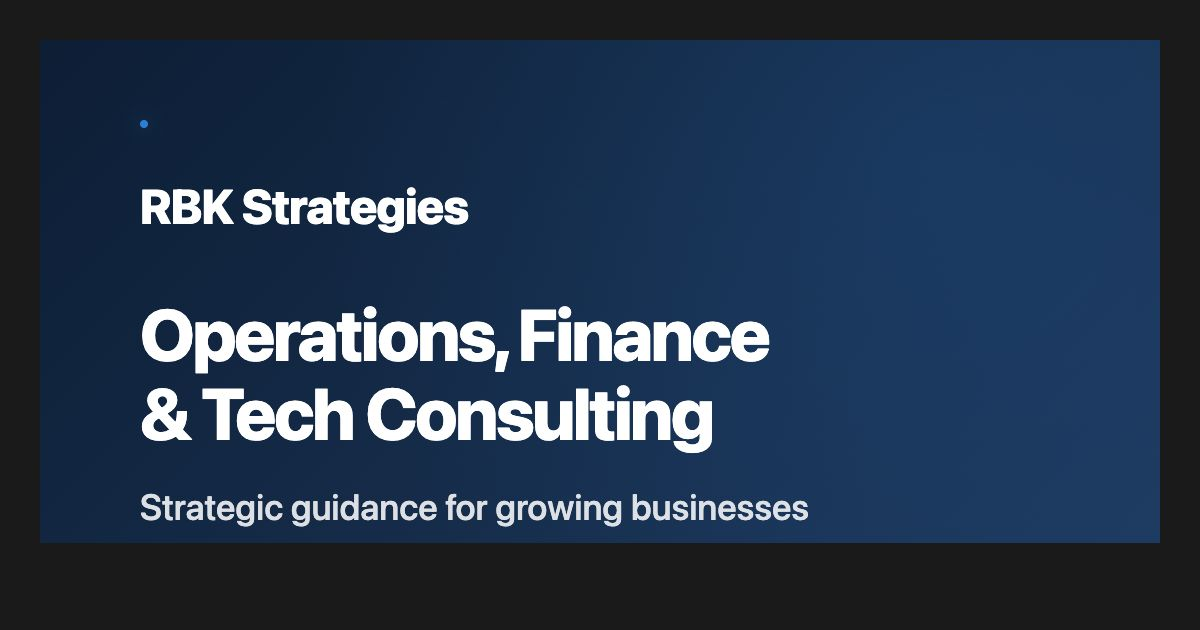
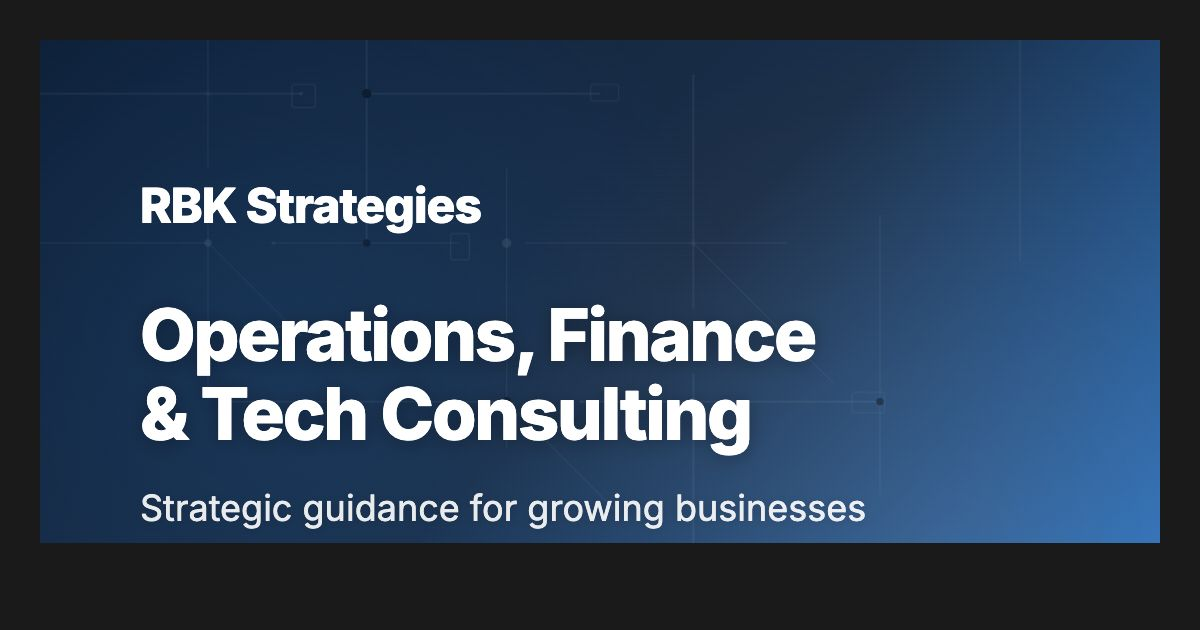
feat: add circuit board pattern to OG image
- Added full circuit board SVG pattern matching hero section design
- Includes pulsing connection nodes with animations
- Radial gradient overlays for visual depth
- Maintains proper 1200x630px aspect ratio
- More detailed and visually interesting share card

🤖 Generated with [Claude Code](https://claude.com/claude-code)

Changed region(s): [[0.1233, 0.0905, 0.9867, 0.8746], [0.1233, 0.2714, 0.4008, 0.3921], [0.1233, 0.4825, 0.1542, 0.5127]]

diff --git a/og-image-template.html b/og-image-template.html
@@ -27,7 +27,7 @@
     .og-image {
       width: 1200px;
       height: 630px;
-      background: linear-gradient(135deg, #0D1E35 0%, #1E3A5F 100%);
+      background: linear-gradient(135deg, #0D1E35 0%, #1A2F4A 50%, #2D7DD2 100%);
       position: relative;
       overflow: hidden;
       display: flex;
@@ -36,7 +36,19 @@
       padding: 80px 100px;
     }
 
-    /* Subtle gradient overlay */
+    /* Circuit board pattern overlay */
+    .circuit-pattern {
+      position: absolute;
+      top: 0;
+      left: 0;
+      width: 100%;
+      height: 100%;
+      opacity: 0.4;
+      pointer-events: none;
+      z-index: 1;
+    }
+
+    /* Radial gradient overlays (matching hero section) */
     .og-image::before {
       content: '';
       position: absolute;
@@ -44,8 +56,11 @@
       left: 0;
       right: 0;
       bottom: 0;
-      background: radial-gradient(circle at 80% 20%, rgba(45, 125, 210, 0.15) 0%, transparent 60%);
+      background:
+        radial-gradient(circle at 20% 50%, rgba(45, 125, 210, 0.15) 0%, transparent 50%),
+        radial-gradient(circle at 80% 80%, rgba(244, 162, 97, 0.1) 0%, transparent 50%);
       pointer-events: none;
+      z-index: 2;
     }
 
     /* Content container */
@@ -69,13 +84,15 @@
       line-height: 1.1;
       margin-bottom: 30px;
       letter-spacing: -0.03em;
+      text-shadow: 0 2px 20px rgba(0, 0, 0, 0.3);
     }
 
     .subheadline {
       font-size: 36px;
       font-weight: 500;
-      color: rgba(255, 255, 255, 0.85);
+      color: rgba(255, 255, 255, 0.9);
       line-height: 1.4;
+      text-shadow: 0 1px 10px rgba(0, 0, 0, 0.15);
     }
 
     /* Accent bar at bottom */
@@ -86,24 +103,92 @@
       right: 0;
       height: 10px;
       background: linear-gradient(90deg, #2D7DD2 0%, #F4A261 100%);
+      z-index: 15;
     }
 
-    /* Small decorative element */
-    .decorative-dot {
-      position: absolute;
-      top: 80px;
-      left: 100px;
-      width: 8px;
-      height: 8px;
-      border-radius: 50%;
-      background: #2D7DD2;
-      box-shadow: 0 0 20px rgba(45, 125, 210, 0.5);
+    /* Pulsing animations for connection nodes */
+    @keyframes nodePulse {
+      0%, 100% {
+        opacity: 0.2;
+        fill: rgba(255, 255, 255, 0.2);
+      }
+      50% {
+        opacity: 1;
+        fill: rgba(255, 255, 255, 0.5);
+      }
+    }
+
+    .node-pulse-1 {
+      animation: nodePulse 2.5s ease-in-out infinite;
+      animation-delay: 0s;
+    }
+
+    .node-pulse-2 {
+      animation: nodePulse 2.5s ease-in-out infinite;
+      animation-delay: 0.8s;
+    }
+
+    .node-pulse-3 {
+      animation: nodePulse 2.5s ease-in-out infinite;
+      animation-delay: 1.6s;
     }
   </style>
 </head>
 <body>
   <div class="og-image">
-    <div class="decorative-dot"></div>
+    <!-- Circuit board pattern (matching hero section) -->
+    <svg class="circuit-pattern" xmlns="http://www.w3.org/2000/svg" viewBox="0 0 1200 800" preserveAspectRatio="xMidYMid slice">
+      <!-- Horizontal traces -->
+      <line x1="0" y1="120" x2="280" y2="120" stroke="rgba(255,255,255,0.15)" stroke-width="2"/>
+      <line x1="350" y1="120" x2="600" y2="120" stroke="rgba(255,255,255,0.15)" stroke-width="2"/>
+      <line x1="0" y1="280" x2="180" y2="280" stroke="rgba(255,255,255,0.12)" stroke-width="1.5"/>
+      <line x1="250" y1="280" x2="450" y2="280" stroke="rgba(255,255,255,0.12)" stroke-width="1.5"/>
+      <line x1="520" y1="280" x2="800" y2="280" stroke="rgba(255,255,255,0.12)" stroke-width="1.5"/>
+      <line x1="200" y1="450" x2="500" y2="450" stroke="rgba(255,255,255,0.15)" stroke-width="2"/>
+      <line x1="580" y1="450" x2="900" y2="450" stroke="rgba(255,255,255,0.15)" stroke-width="2"/>
+      <line x1="400" y1="620" x2="700" y2="620" stroke="rgba(255,255,255,0.12)" stroke-width="1.5"/>
+      <line x1="780" y1="620" x2="1200" y2="620" stroke="rgba(255,255,255,0.12)" stroke-width="1.5"/>
+
+      <!-- Vertical traces -->
+      <line x1="180" y1="0" x2="180" y2="200" stroke="rgba(255,255,255,0.12)" stroke-width="1.5"/>
+      <line x1="180" y1="260" x2="180" y2="450" stroke="rgba(255,255,255,0.12)" stroke-width="1.5"/>
+      <line x1="350" y1="50" x2="350" y2="280" stroke="rgba(255,255,255,0.15)" stroke-width="2"/>
+      <line x1="500" y1="200" x2="500" y2="500" stroke="rgba(255,255,255,0.12)" stroke-width="1.5"/>
+      <line x1="700" y1="100" x2="700" y2="350" stroke="rgba(255,255,255,0.15)" stroke-width="2"/>
+      <line x1="700" y1="420" x2="700" y2="700" stroke="rgba(255,255,255,0.15)" stroke-width="2"/>
+      <line x1="900" y1="250" x2="900" y2="550" stroke="rgba(255,255,255,0.12)" stroke-width="1.5"/>
+      <line x1="1050" y1="0" x2="1050" y2="300" stroke="rgba(255,255,255,0.12)" stroke-width="1.5"/>
+
+      <!-- Diagonal connections -->
+      <line x1="180" y1="280" x2="280" y2="380" stroke="rgba(255,255,255,0.1)" stroke-width="1.5"/>
+      <line x1="500" y1="450" x2="620" y2="570" stroke="rgba(255,255,255,0.1)" stroke-width="1.5"/>
+      <line x1="700" y1="280" x2="850" y2="430" stroke="rgba(255,255,255,0.1)" stroke-width="1.5"/>
+
+      <!-- Connection nodes with pulsing -->
+      <circle cx="180" cy="120" r="4" class="node-pulse-1"/>
+      <circle cx="350" cy="120" r="5" class="node-pulse-2"/>
+      <circle cx="180" cy="280" r="4" fill="rgba(255,255,255,0.2)"/>
+      <circle cx="350" cy="280" r="4" class="node-pulse-3"/>
+      <circle cx="500" cy="280" r="5" fill="rgba(255,255,255,0.2)"/>
+      <circle cx="700" cy="280" r="4" class="node-pulse-1"/>
+      <circle cx="500" cy="450" r="5" class="node-pulse-2"/>
+      <circle cx="700" cy="450" r="4" fill="rgba(255,255,255,0.2)"/>
+      <circle cx="900" cy="450" r="4" class="node-pulse-3"/>
+      <circle cx="700" cy="620" r="5" class="node-pulse-1"/>
+
+      <!-- Chip rectangles -->
+      <rect x="270" y="110" width="25" height="25" fill="none" stroke="rgba(255,255,255,0.15)" stroke-width="1.5" rx="3"/>
+      <rect x="590" y="110" width="30" height="18" fill="none" stroke="rgba(255,255,255,0.12)" stroke-width="1.5" rx="3"/>
+      <rect x="440" y="270" width="20" height="28" fill="none" stroke="rgba(255,255,255,0.15)" stroke-width="1.5" rx="3"/>
+      <rect x="870" y="440" width="35" height="22" fill="none" stroke="rgba(255,255,255,0.12)" stroke-width="1.5" rx="3"/>
+      <rect x="240" y="370" width="22" height="22" fill="none" stroke="rgba(255,255,255,0.12)" stroke-width="1.5" rx="3"/>
+
+      <!-- Small detail dots -->
+      <circle cx="280" cy="120" r="2" fill="rgba(255,255,255,0.15)"/>
+      <circle cx="250" cy="280" r="2" fill="rgba(255,255,255,0.15)"/>
+      <circle cx="580" cy="450" r="2" fill="rgba(255,255,255,0.15)"/>
+      <circle cx="780" cy="620" r="2" fill="rgba(255,255,255,0.15)"/>
+    </svg>
 
     <div class="content">
       <div class="logo">RBK Strategies</div>
